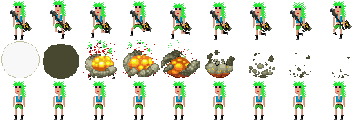
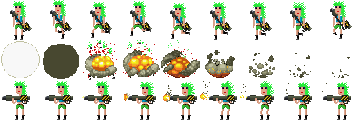
updated punk to shoot anim

Changed region(s): [[0.1222, 0.675, 0.9778, 1.0], [0.0, 0.675, 0.0917, 1.0]]

diff --git a/walker/src/careless/walker/Bazooka.java b/walker/src/careless/walker/Bazooka.java
@@ -18,7 +18,7 @@ public class Bazooka extends Soldier{
 		w=40;
 		h=40;
 		x 		 = device.w + device.random_int(0,100);
-		dest_x   = device.random_int(device.w/4,device.w-w);
+		dest_x   = device.random_int(device.w/1.5f,device.w-w);
 		y 		 = device.random_int(0,200);
 		run_left = true;
 		direction = FACING.LEFT;
